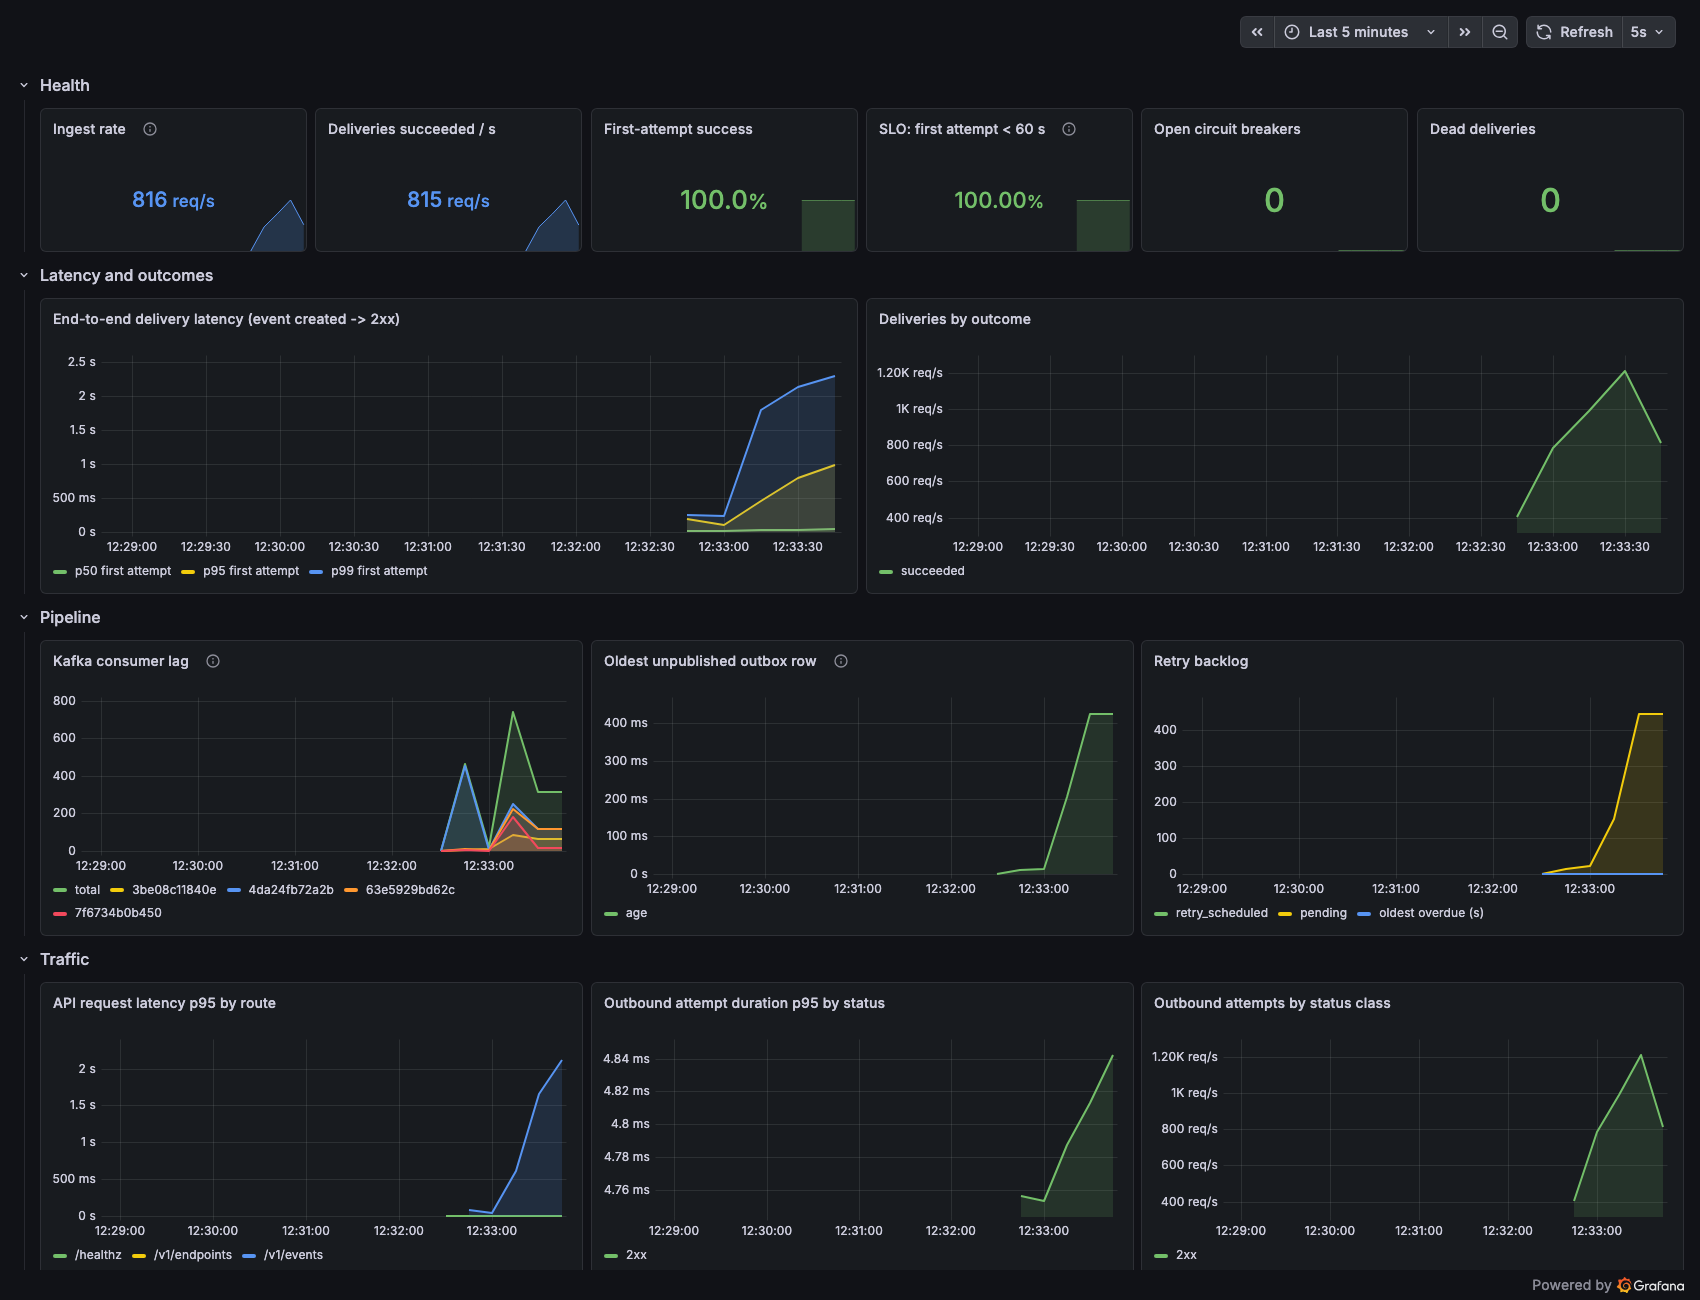
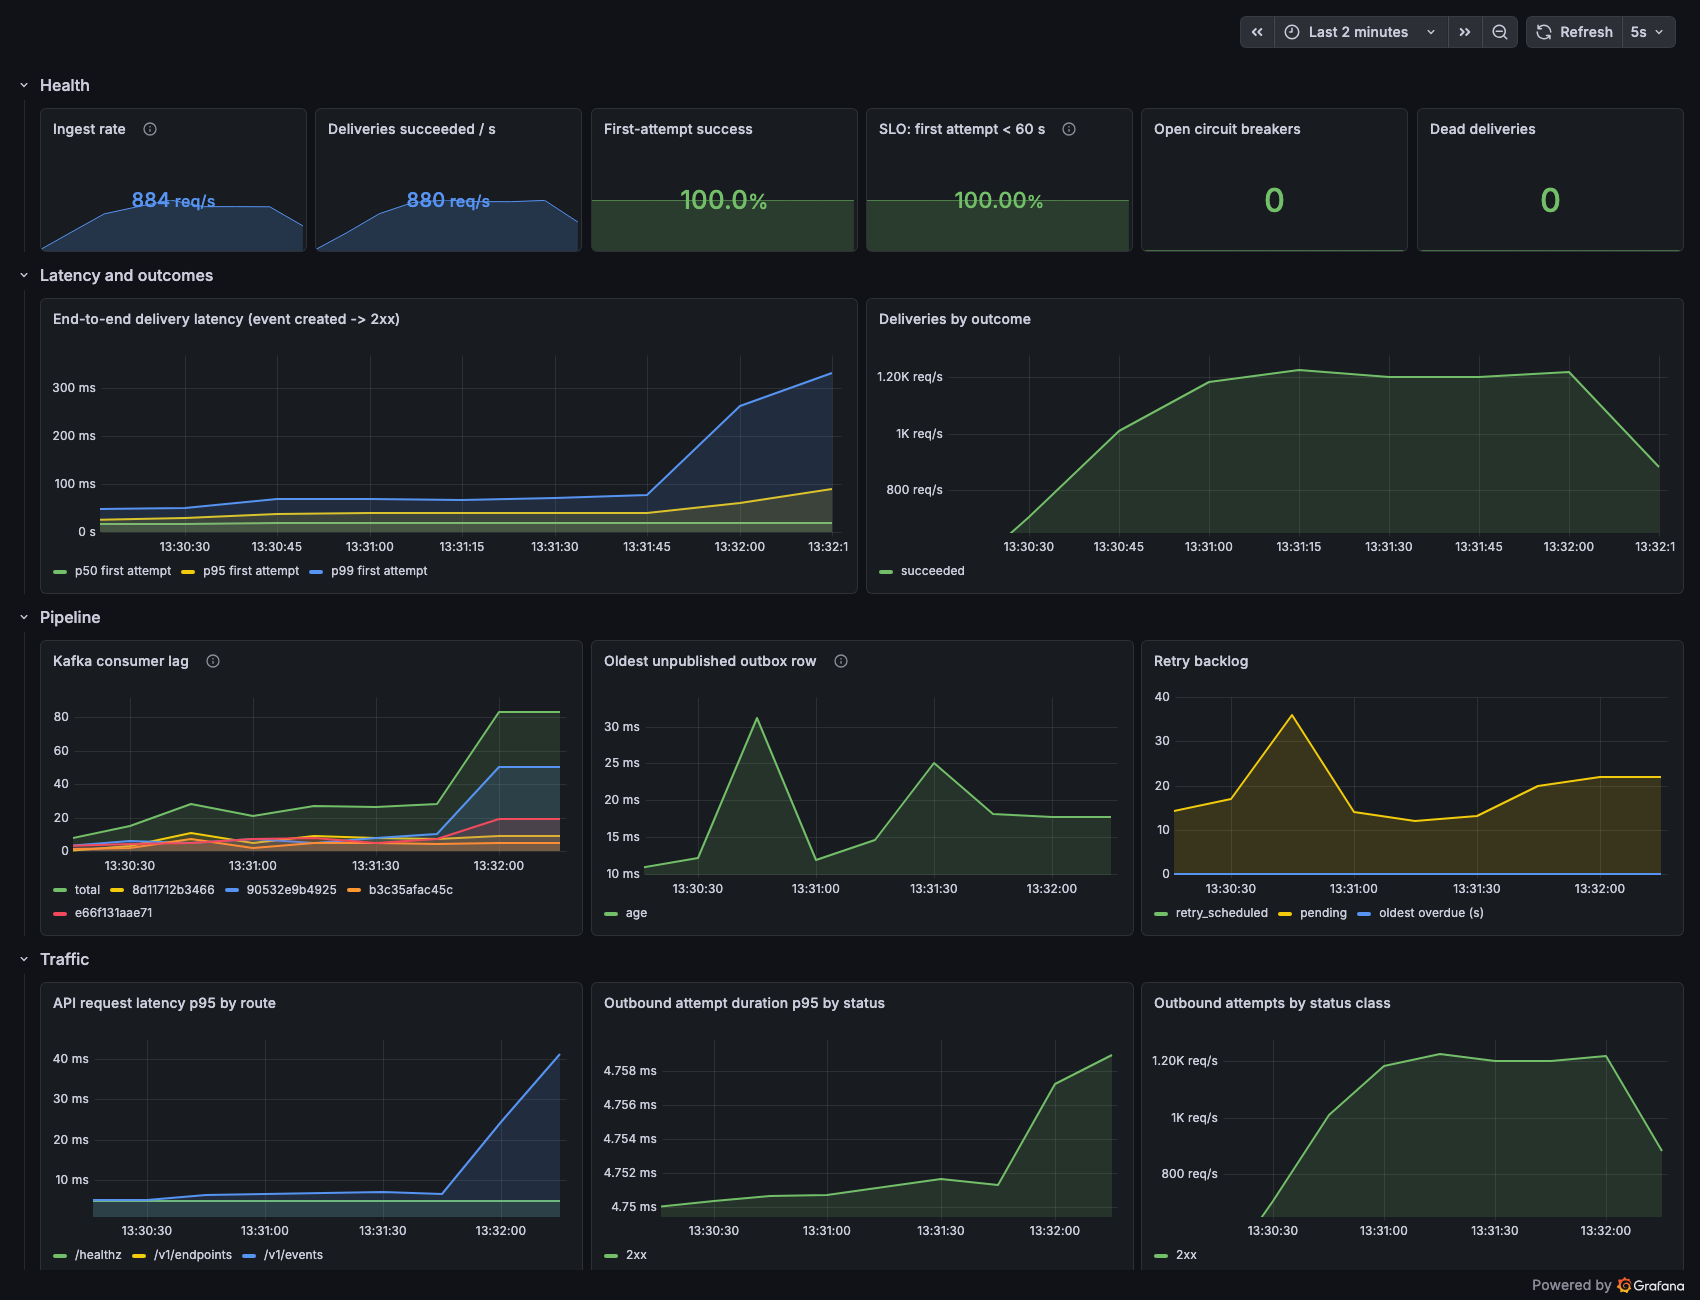
Results: 1M-event run and full-size Postgres-vs-Kafka comparison; dashboard screenshot
- 1,000,000-event run: 943,815 accepted, 0 lost, 0 duplicates, 1,753 events/s
- Postgres vs Kafka at 100k each, run back to back: 0 lost in both
- Record the conditions (battery, Low Power Mode) and the discarded attempts
- Grafana dashboard screenshot under load; PREBUILT=1 documented

diff --git a/docs/RESULTS.md b/docs/RESULTS.md
@@ -24,7 +24,8 @@ for first-attempt deliveries to healthy endpoints.
 | Worker crash (3 × SIGKILL) | 101,132 | **0** | **17** | 0.026 / 8.834 / 10.541 s | met (100%) | 1,582 / 1,405 | [chaos-worker](results/2026-11-20-1947-chaos-worker-kafka-100000.md) |
 | Failing endpoints (30%: 5xx / timeout / 429) | 100,555 | **0** | **0** | 0.047 / 0.339 / 0.632 s (healthy) | met (100%) | 1,604 / 1,396 | [chaos-endpoints](results/2026-11-20-1951-chaos-endpoints-kafka-100000.md) |
 | Database restart | 98,481 (+59 rejected with 503) | **0** | **0** | 0.037 / 0.277 / 0.412 s | met (100%) | 2,169 / 1,368 | [chaos-db](results/2026-11-20-1953-chaos-db-kafka-100000.md) |
-| Postgres vs Kafka | see below (10k size) | **0 / 0** | **0 / 0** | see below | met | see below | [pg](results/2026-11-20-steady-postgres-10000.md), [kafka](results/2026-11-20-steady-kafka-10000.md) |
+| Postgres vs Kafka (100k each) | 100,744 / 100,602 | **0 / 0** | **0 / 0** | pg 0.002 / 0.099 / 0.206 s; kafka 0.018 / 0.068 / 0.255 s | met / met | sustained 1,399 / 1,397 | [pg](results/2026-11-21-1327-steady-postgres-100000.md), [kafka](results/2026-11-21-1329-steady-kafka-100000.md) |
+| **1,000,000 events** (target 2000/s, 1000 endpoints) | 943,815 | **0** | **0** | 0.158 / 8.133 / 12.654 s | met (100%) | 2,534 / 1,753 | [1M](results/2026-11-21-1229-steady-kafka-1000000.md) |
 
 Additional runs:
 
@@ -32,7 +33,7 @@ Additional runs:
 |---|---|---|
 | Scale workers mid-run (`docker compose --scale`, 4 → 8 → 2), 40k events | 40,297 accepted, **0 lost, 0 duplicates**, p99 1.49 s (rebalances), SLO met | [scale](results/2026-11-20-scale-kafka-40000.md) |
 | Kubernetes (kind) autoscaling, 3000/s burst | KEDA scaled workers **1 → 3 → 7 → 11** as lag reached 21k, back to **1** after it drained; 77,634 / 77,634 delivered | [k8s](results/2026-11-20-k8s-autoscaling.md) |
-| 10k smoke, each queue mode | 0 lost, 0 duplicates in both | (the compare row) |
+| 10k smoke, each queue mode (1,000/s, 50 endpoints) | 0 lost, 0 duplicates in both; p99 75 ms (Postgres), 46 ms (Kafka) | [pg](results/2026-11-20-steady-postgres-10000.md), [kafka](results/2026-11-20-steady-kafka-10000.md) |
 
 **The sustained ceiling on this machine is ~1,750–1,800 events/s.** Each
 event costs one ingest transaction plus a claim and a result transaction in
@@ -84,33 +85,59 @@ the relay, scheduler and workers retried their connections with backoff, and
 everything resumed. **Zero lost** among the 98,481 accepted events.
 
 ### Postgres queue mode vs Kafka mode
-Same settings: 10k events at 1,000/s, 50 endpoints, 4 workers, fresh volumes.
+Same settings, run back to back on fresh volumes: 100k events at 1,500/s, 100
+endpoints, 4 workers.
 
 | Mode | Accepted | Lost | Dup | Delivery p50 / p95 / p99 | Sustained events/s | Ingest p95 |
 |---|---:|---:|---:|---|---:|---:|
-| Postgres (`QUEUE_MODE=postgres`) | 9,748 | 0 | 0 | 0.002 / 0.047 / 0.075 s | 813 | 3.0 ms |
-| Kafka (`QUEUE_MODE=kafka`) | 9,746 | 0 | 0 | 0.014 / 0.023 / 0.046 s | 813 | 4.7 ms |
+| Postgres (`QUEUE_MODE=postgres`) | 100,744 | 0 | 0 | 0.002 / 0.099 / 0.206 s | 1,399 | 61.8 ms |
+| Kafka (`QUEUE_MODE=kafka`) | 100,602 | 0 | 0 | 0.018 / 0.068 / 0.255 s | 1,397 | 24.6 ms |
 
-At this rate neither mode is saturated (both deliver exactly what is
-offered), so the difference is the *shape* of latency:
+At 1,500/s neither mode is saturated: both deliver what is offered and both
+lose nothing. **On one small machine the two are close, and that is the honest
+result.** The differences are in the shape:
 
-- **Postgres mode** has the lowest median (2 ms): a worker that is polling
-  claims a new row almost immediately. Its tail is wider (p99 75 ms) because
-  workers poll in batches and sleep 100 ms when the table looks empty. Its
-  bottleneck at scale is the database itself: every poll is an
-  `UPDATE ... FOR UPDATE SKIP LOCKED` on the hottest table, so more workers
-  add more write contention, and per-endpoint protections are only per-worker
-  (shown in the demo: the failing endpoint got 5 attempts *per worker* before
-  the breakers opened).
-- **Kafka mode** adds a hop (outbox → relay → Kafka → worker), so the median
-  is higher (14 ms), but it is tighter (p99 46 ms) and the database does less
-  work per delivery for the queue itself. Its bottleneck is the outbox: the
-  relay's writes and the ingest transaction's extra insert, and ultimately the
+- **Postgres mode** has the lowest median (2 ms): a polling worker claims a
+  new row almost immediately, with no relay hop. But the API and the workers
+  now fight over the same table, which shows up as slower ingest (p95 61.8 ms
+  against 24.6 ms) and a wider p95. Its bottleneck at scale is the database:
+  every poll is an `UPDATE ... FOR UPDATE SKIP LOCKED` on the hottest table,
+  so more workers add more write contention. And per-endpoint protections are
+  only per-worker (shown in the demo: the failing endpoint got 5 attempts *per
+  worker* before the breakers opened).
+- **Kafka mode** adds a hop (outbox → relay → Kafka → worker), so its median
+  is higher (18 ms), but ingest is faster and p95 is tighter, because handing
+  out work no longer competes with accepting it. Its bottleneck is the outbox
+  (the relay's writes plus the extra insert at ingest) and, ultimately, the
   64-partition ceiling on worker parallelism.
 
-**Not run: the comparison at the default 100k size.** The host disk had
-3.5 GB free by then, and `loadtest/run.sh` refuses to start a test below 4 GB
-(see "what broke" below). Run `make load-compare` with more free space to get it.
+What this test cannot show is the reason Kafka was chosen: beyond one
+machine, Kafka lets workers scale out without adding load to Postgres, and it
+gives each endpoint a single owner. A laptop is too small to reach the point
+where Postgres-as-a-queue falls over.
+
+An earlier 10k run of each mode (1,000/s, 50 endpoints) showed the same
+pattern: p99 75 ms for Postgres mode, 46 ms for Kafka mode, zero lost in both.
+
+### One million events
+`make load-full`: target 2,000/s, 1,000 endpoints, Kafka mode, 4 workers.
+**943,815 events accepted, 0 rejected, 0 lost, 0 duplicates**, sustained
+1,753 events/s for about nine minutes, SLO met (100% within 60 s).
+
+The latency tail is long (p50 0.16 s, p95 8.1 s, p99 12.7 s, max 14.5 s) and
+ingest p95 was 2.0 s. That is what running *above* capacity looks like: the
+target rate is higher than the ~1,750/s this machine sustains, so requests
+queue in the API and deliveries queue behind them for the whole run. Nothing
+is dropped; it is delayed. The sustained rate matching the 100k run (1,785/s)
+is the useful finding: throughput did not degrade over ten times the data.
+
+### A note on conditions
+The runs dated 2026-11-21 (the 1M run and the Postgres-vs-Kafka pair) were
+made **on battery with macOS Low Power Mode on**, which lowers CPU speed. The
+2026-11-20 runs were not recorded either way. Compare runs within a day, not
+across days. Two earlier attempts at the comparison were discarded and are not
+published: one was disturbed by dashboard screenshots being taken during the
+run, and one ran while the laptop was asleep with the lid closed.
 
 ## What broke and how I fixed it
 
@@ -180,5 +207,4 @@ make k8s-up && make k8s-demo && make k8s-down
 
 Each writes `docs/results/<date-time>-<test>-<mode>-<size>.md`. Sizes and rates
 are parameters: `make load LOAD_EVENTS=1000000 LOAD_ENDPOINTS=1000` (or
-`make load-full`) for 1M events. **The 1M run was not performed on this
-machine** (disk space); expect roughly 10 minutes at the measured ceiling.
+`make load-full`) for 1M events (about ten minutes on this machine).

diff --git a/README.md b/README.md
@@ -14,6 +14,7 @@ Your application posts an event once. Hooklane saves it, signs it, and delivers 
 | Events lost across every load and chaos test | **0** |
 | Sustained throughput (6-CPU VM shared with the database, broker and load generator) | **about 1,785 events/s** |
 | Delivery latency under steady load, p50 / p99 | **0.15 s / 0.56 s** |
+| Largest run | **943,815 events, 0 lost, 0 duplicates** |
 | Workers killed with `SIGKILL` mid-run, Postgres restarted mid-run | **0 lost** in both |
 | Kubernetes autoscaling on Kafka lag | **1 → 11 → 1 workers**, 77,634 of 77,634 delivered |
 
@@ -94,7 +95,7 @@ You need Docker and nothing else.
 
 ```bash
 git clone https://github.com/BradyEdgar94/webhook-delivery-service.git && cd webhook-delivery-service
-make demo PREBUILT=1     # pulls the published image: ready in about a minute
+make demo PREBUILT=1     # pulls the published image: no compile step, a minute or two
 ```
 
 Or build the image yourself with plain `make demo`. The first build takes about 10 minutes, because it compiles the Kafka client library from source; later builds take about a minute.
@@ -665,6 +666,10 @@ flowchart LR
     C -. "or" .-> DD["Datadog"]
 ```
 
+![The Hooklane Grafana dashboard under load: about 1,200 events per second, 100% first-attempt success, SLO at 100%](docs/images/grafana-dashboard.png)
+
+*The provisioned Grafana dashboard during a load run of about 1,200 events/s.*
+
 - **Metrics:** end-to-end delivery latency (p50/p95/p99, first attempt vs retried), outcomes, first-attempt success rate, Kafka consumer lag, outbox age, retry backlog, dead deliveries, open circuit breakers, API latency, outbound attempt duration.
 - **Traces:** one trace follows an event from the API request, through the outbox and the relay, across Kafka, into the worker and out through the HTTP call. The trace id is stored on the outbox row and carried as a Kafka header.
 - **Logs:** structured JSON with `tenant_id`, `event_id`, `delivery_id`, `endpoint_id`. Payloads, secrets and API keys are never logged.
@@ -688,7 +693,8 @@ Each run is verified by a separate tool, [`loadcheck`](crates/loadcheck), which 
 | **Worker crash**: 3 workers killed with `SIGKILL` mid-run | **0** | 17 | 0.03 / 8.8 / 10.5 s | met |
 | **Failing endpoints**: 30% return 5xx, time out or send 429 | **0** | 0 | 0.05 / 0.34 / 0.63 s (healthy endpoints) | met |
 | **Database restart** mid-run | **0** | 0 | 0.04 / 0.28 / 0.41 s | met |
-| **Postgres mode vs Kafka mode** (10,000 events each) | **0 / 0** | 0 / 0 | p99: 75 ms / 46 ms | met |
+| **Postgres mode vs Kafka mode** (100,000 events each, 1,500/s) | **0 / 0** | 0 / 0 | Postgres 0.002 / 0.10 / 0.21 s; Kafka 0.018 / 0.07 / 0.26 s | met |
+| **1,000,000 events**, target 2,000/s, 1,000 endpoints | **0** | 0 | 0.16 / 8.1 / 12.7 s | met |
 
 Also measured: scaling workers 4 → 8 → 2 during a run (0 lost, 0 duplicates), and Kubernetes autoscaling 1 → 11 → 1 workers on lag (77,634 of 77,634 delivered).
 
@@ -700,10 +706,12 @@ What the numbers mean:
 - **The slow tail in the crash test** (p95 of 8.8 s) is Kafka waiting 10 seconds to decide a killed worker is really gone before giving its partitions to another.
 - **Failing endpoints did not slow healthy ones.** With 30% of endpoints broken, the other 70% still got every event with a p99 of 0.63 s.
 - **During the database restart**, the API answered `503` to 59 requests. Those were never accepted, so they are not lost; the sender retries them.
+- **The million-event run has a long tail on purpose.** Its 2,000/s target is above what this machine sustains, so a backlog builds for the whole nine minutes. Nothing is dropped, it is delayed, and throughput held at 1,753 events/s over ten times the data.
+- **Postgres mode and Kafka mode are close on one machine.** Postgres mode has the lower median (no relay hop). Kafka mode has faster ingest (p95 25 ms against 62 ms), because handing out work no longer competes with accepting it on the same table. A laptop is too small to reach the scale where the difference becomes decisive.
 
 **What broke along the way.** The first steady run rejected 4,221 requests. The API had a pool of 20 database connections, and since every ingest is one database transaction, the pool size was capping throughput. Raising it to 64 (and lifting the container's open-file limit) took the run from 1,332 to 1,785 events/s with zero rejections. The system is now limited by CPU, with Postgres the largest consumer at roughly four commits per event. Turning off `synchronous_commit` would make it faster, and was deliberately not done, because a `202` has to mean the event is safely on disk.
 
-**Not run:** the Postgres-vs-Kafka comparison at the full 100,000 size, and the 1,000,000-event run. The test machine ran out of disk space.
+**Conditions.** The million-event run and the Postgres-vs-Kafka pair were made on battery with macOS Low Power Mode on, which lowers CPU speed; compare runs within a day, not across days.
 
 Full write-up and every report: [docs/RESULTS.md](docs/RESULTS.md), [docs/results/](docs/results)
 
@@ -717,6 +725,7 @@ Full write-up and every report: [docs/RESULTS.md](docs/RESULTS.md), [docs/result
 |---|---|
 | `make up` | Build and start the whole stack. `WORKERS=4 make up` sets the worker count. |
 | `make demo` | Start the stack, create endpoints, send 100 events, print a summary. |
+| `make demo PREBUILT=1` | The same, using the published image instead of building one (also works with `make up`). |
 | `make logs` | Tail every service. |
 | `make down` | Stop everything and delete its data. |
 | `QUEUE_MODE=postgres make up` | Run the simpler Postgres-only queue: no relay, no Kafka. |
@@ -851,7 +860,7 @@ This project was built from a written specification ([docs/SPEC.md](docs/SPEC.md
 | 5. Prove it | Load and chaos tests run; every report shows zero lost |
 | 6. Finish | A fresh clone works with `make demo` |
 
-**3. Rules that keep the results honest.** The spec forbade inventing numbers, forbade weakening a test or a guarantee to make a gate pass, and required anything that could not be run to be reported as not run. That is why this README says which tests were not run at full size instead of leaving them out.
+**3. Rules that keep the results honest.** The spec forbade inventing numbers, forbade weakening a test or a guarantee to make a gate pass, and required anything that could not be run to be reported as not run. That is why the results state the conditions they were measured under, including the unflattering ones (a laptop, on battery), and why two comparison runs that were disturbed were thrown away instead of published.
 
 **4. Verification that does not trust the system under test.**
 

diff --git a/docs/PROGRESS.md b/docs/PROGRESS.md
@@ -174,6 +174,22 @@ Gate evidence:
   `terraform fmt -check` clean. **Never applied.** (Provider download deleted
   afterwards to save disk.)
 
+### Follow-up after publishing (2026-11-21)
+- **Deferred tests now run** (disk space freed): `make load-full` accepted
+  943,815 events with 0 lost, 0 duplicates, sustained 1,753 events/s; the
+  Postgres-vs-Kafka pair at 100k: 100,744 / 100,602 accepted, 0 lost in both.
+  Run on battery with Low Power Mode on. Two disturbed comparison attempts
+  (dashboard screenshots during the run; laptop asleep) were discarded.
+- **CI fixed.** The first runs on GitHub failed compiling `rdkafka-sys`:
+  `curl/curl.h: No such file or directory`. macOS and the rust Docker image
+  ship the libcurl headers; GitHub's Ubuntu runners do not. CI now installs
+  `libcurl4-openssl-dev`. To find this without access to the logs, CI prints
+  the first error of a failed run as an annotation (`.github/first-error.sh`).
+  Lint and all 34 integration tests now pass on GitHub.
+- **Prebuilt image** published to GHCR for amd64 and arm64 by
+  `.github/workflows/image.yml`; `make demo PREBUILT=1` uses it.
+- Added `docs/SPEC.md`, an autoscaling chart and a dashboard screenshot.
+
 ## Requirements checklist (spec section 23)
 
 **Architecture**
@@ -226,7 +242,7 @@ Gate evidence:
 **Proof**
 - [x] Unit and integration tests in section 19 pass, in both queue modes where applicable
 - [x] Sink records every received id; `loadcheck` reports lost, duplicates and latency percentiles
-- [x] Six load and chaos tests run, with real reports in `docs/results/` — five at the default ~100k size; Postgres-vs-Kafka compare at 10k (disk space, see Phase 5)
+- [x] Six load and chaos tests run, with real reports in `docs/results/` — all six at the default ~100k size (the compare pair was rerun at 100k on 2026-11-21), plus a 1M run
 - [x] CI workflow
 
 **Documentation**

diff --git a/docs/results/2026-11-21-1327-steady-postgres-100000.md b/docs/results/2026-11-21-1327-steady-postgres-100000.md
@@ -5,12 +5,12 @@
 
 | | |
 |---|---|
-| Date | 2026-11-21 20:20 UTC |
+| Date | 2026-11-21 21:27 UTC |
 | Machine | Apple M1 Pro, 32 GB RAM host; Docker VM: 6 CPUs, 11.7 GB |
-| Queue mode | kafka |
+| Queue mode | postgres |
 | Workers | 4 |
-| Test size | 101053 events accepted (HTTP 202) |
-| Settings | k6 ramping-arrival-rate, target 1500/s (steady), 100 endpoints, ingest latency p50/p95/p99 2.5ms/32.9ms/131.6ms, rejected 0 |
+| Test size | 100744 events accepted (HTTP 202) |
+| Settings | k6 ramping-arrival-rate, target 1500/s (steady), 100 endpoints, ingest latency p50/p95/p99 1.6ms/61.8ms/134.8ms, rejected 0 |
 | Drained | yes (waited 0 s after the load ended) |
 
 ## Result
@@ -19,17 +19,17 @@
 |---|---|
 | **Lost** | **0** (0 at ingest, 0 healthy deliveries never received) |
 | **Duplicates** (extra requests to healthy endpoints) | **0** |
-| Events in Postgres | 101053 |
-| Healthy-endpoint deliveries | 101053 (0 not `succeeded` in Postgres) |
-| Latency p50 / p95 / p99 (first attempt, healthy) | 0.019 s / 0.084 s / 0.211 s |
-| Latency max | 0.499 s |
+| Events in Postgres | 100744 |
+| Healthy-endpoint deliveries | 100744 (0 not `succeeded` in Postgres) |
+| Latency p50 / p95 / p99 (first attempt, healthy) | 0.002 s / 0.099 s / 0.206 s |
+| Latency max | 0.391 s |
 | SLO (99% within 60 s) | **met** (100.00% within 60 s) |
-| Ingest events/s: peak (1 s) / sustained | 1580 / 1404 |
-| Deliveries/s: peak (1 s) / sustained | 1776 / 1405 |
+| Ingest events/s: peak (1 s) / sustained | 1596 / 1399 |
+| Deliveries/s: peak (1 s) / sustained | 1792 / 1400 |
 
 ## Deliveries by status (all endpoints)
 
 | Status | Count |
 |---|---|
-| succeeded | 101053 |
+| succeeded | 100744 |
 

diff --git a/docs/results/2026-11-21-1329-steady-kafka-100000.md b/docs/results/2026-11-21-1329-steady-kafka-100000.md
@@ -5,12 +5,12 @@
 
 | | |
 |---|---|
-| Date | 2026-11-21 20:31 UTC |
+| Date | 2026-11-21 21:29 UTC |
 | Machine | Apple M1 Pro, 32 GB RAM host; Docker VM: 6 CPUs, 11.7 GB |
-| Queue mode | postgres |
+| Queue mode | kafka |
 | Workers | 4 |
-| Test size | 101244 events accepted (HTTP 202) |
-| Settings | k6 ramping-arrival-rate, target 1500/s (steady), 100 endpoints, ingest latency p50/p95/p99 1.4ms/5.2ms/36.6ms, rejected 0 |
+| Test size | 100602 events accepted (HTTP 202) |
+| Settings | k6 ramping-arrival-rate, target 1500/s (steady), 100 endpoints, ingest latency p50/p95/p99 2.3ms/24.6ms/189.8ms, rejected 0 |
 | Drained | yes (waited 0 s after the load ended) |
 
 ## Result
@@ -19,17 +19,17 @@
 |---|---|
 | **Lost** | **0** (0 at ingest, 0 healthy deliveries never received) |
 | **Duplicates** (extra requests to healthy endpoints) | **0** |
-| Events in Postgres | 101244 |
-| Healthy-endpoint deliveries | 101244 (0 not `succeeded` in Postgres) |
-| Latency p50 / p95 / p99 (first attempt, healthy) | 0.002 s / 0.035 s / 0.078 s |
-| Latency max | 0.254 s |
+| Events in Postgres | 100602 |
+| Healthy-endpoint deliveries | 100602 (0 not `succeeded` in Postgres) |
+| Latency p50 / p95 / p99 (first attempt, healthy) | 0.018 s / 0.068 s / 0.255 s |
+| Latency max | 0.566 s |
 | SLO (99% within 60 s) | **met** (100.00% within 60 s) |
-| Ingest events/s: peak (1 s) / sustained | 1532 / 1406 |
-| Deliveries/s: peak (1 s) / sustained | 1804 / 1407 |
+| Ingest events/s: peak (1 s) / sustained | 1723 / 1397 |
+| Deliveries/s: peak (1 s) / sustained | 2042 / 1398 |
 
 ## Deliveries by status (all endpoints)
 
 | Status | Count |
 |---|---|
-| succeeded | 101244 |
+| succeeded | 100602 |
 
